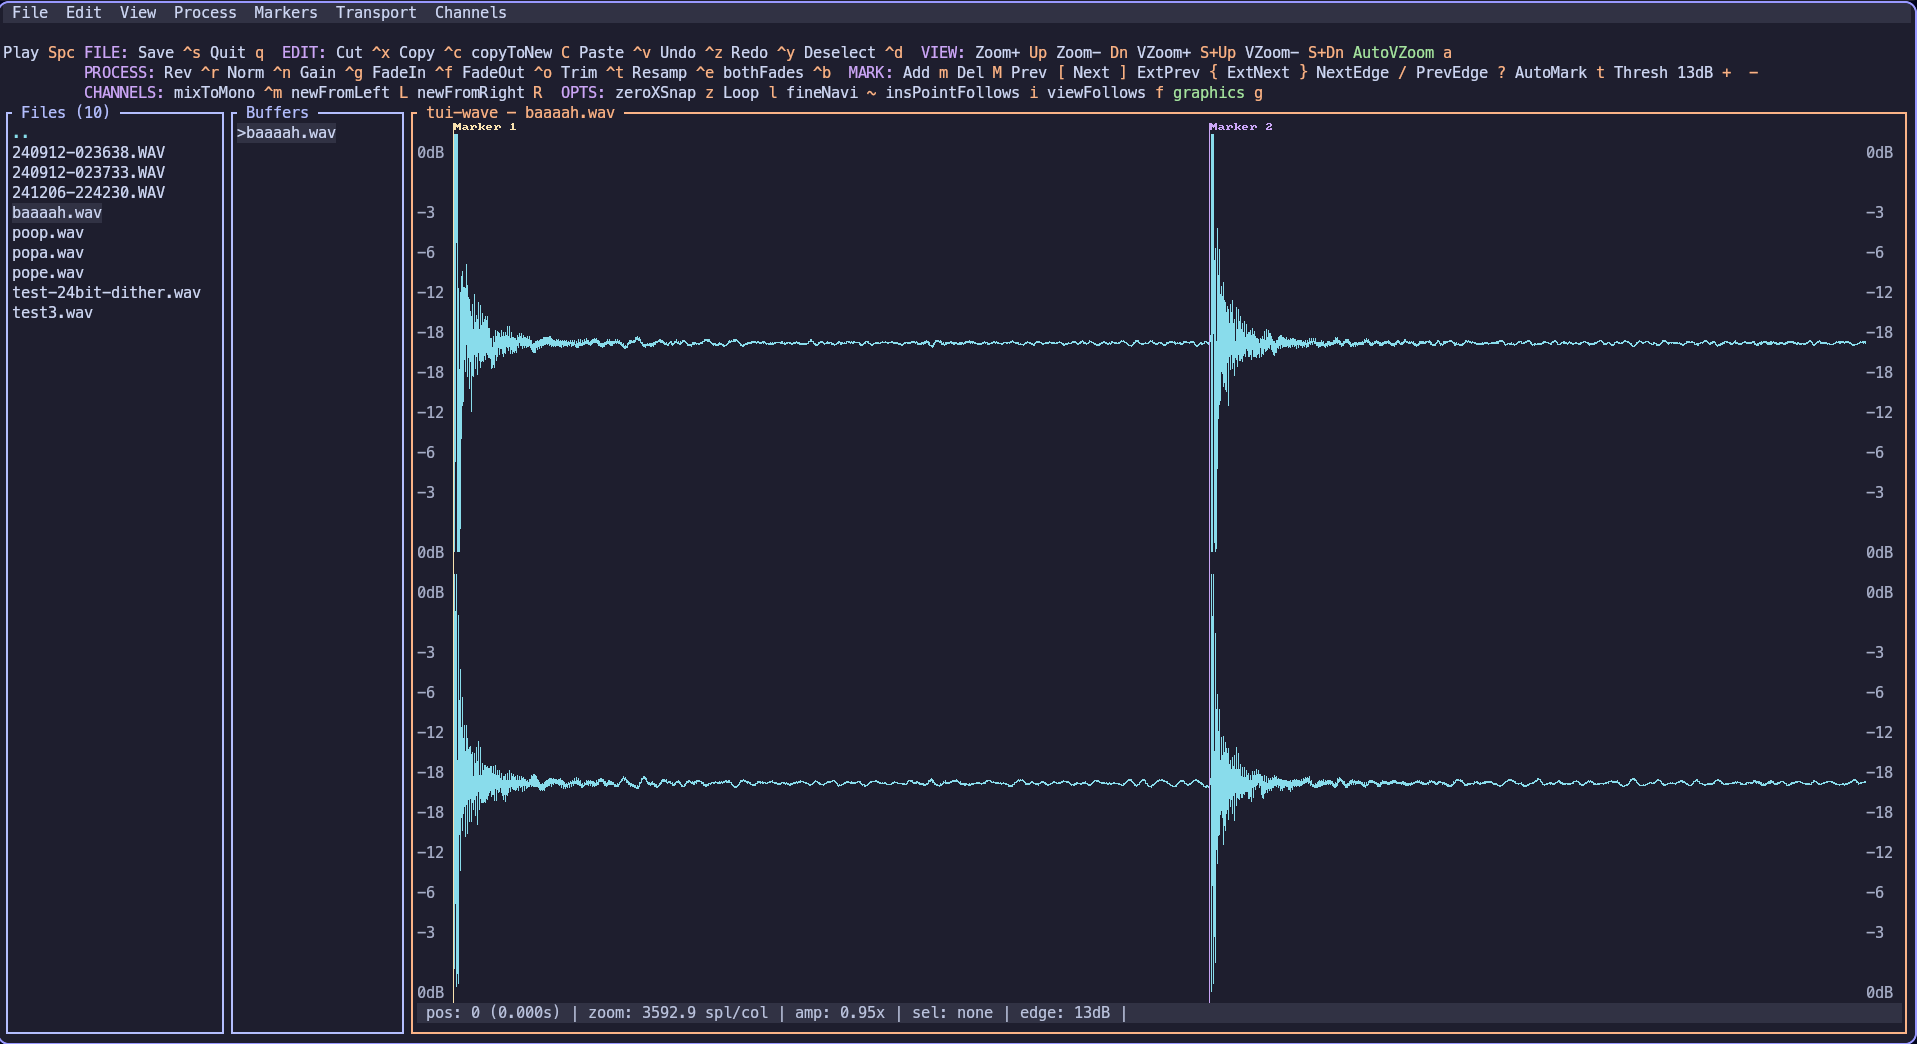
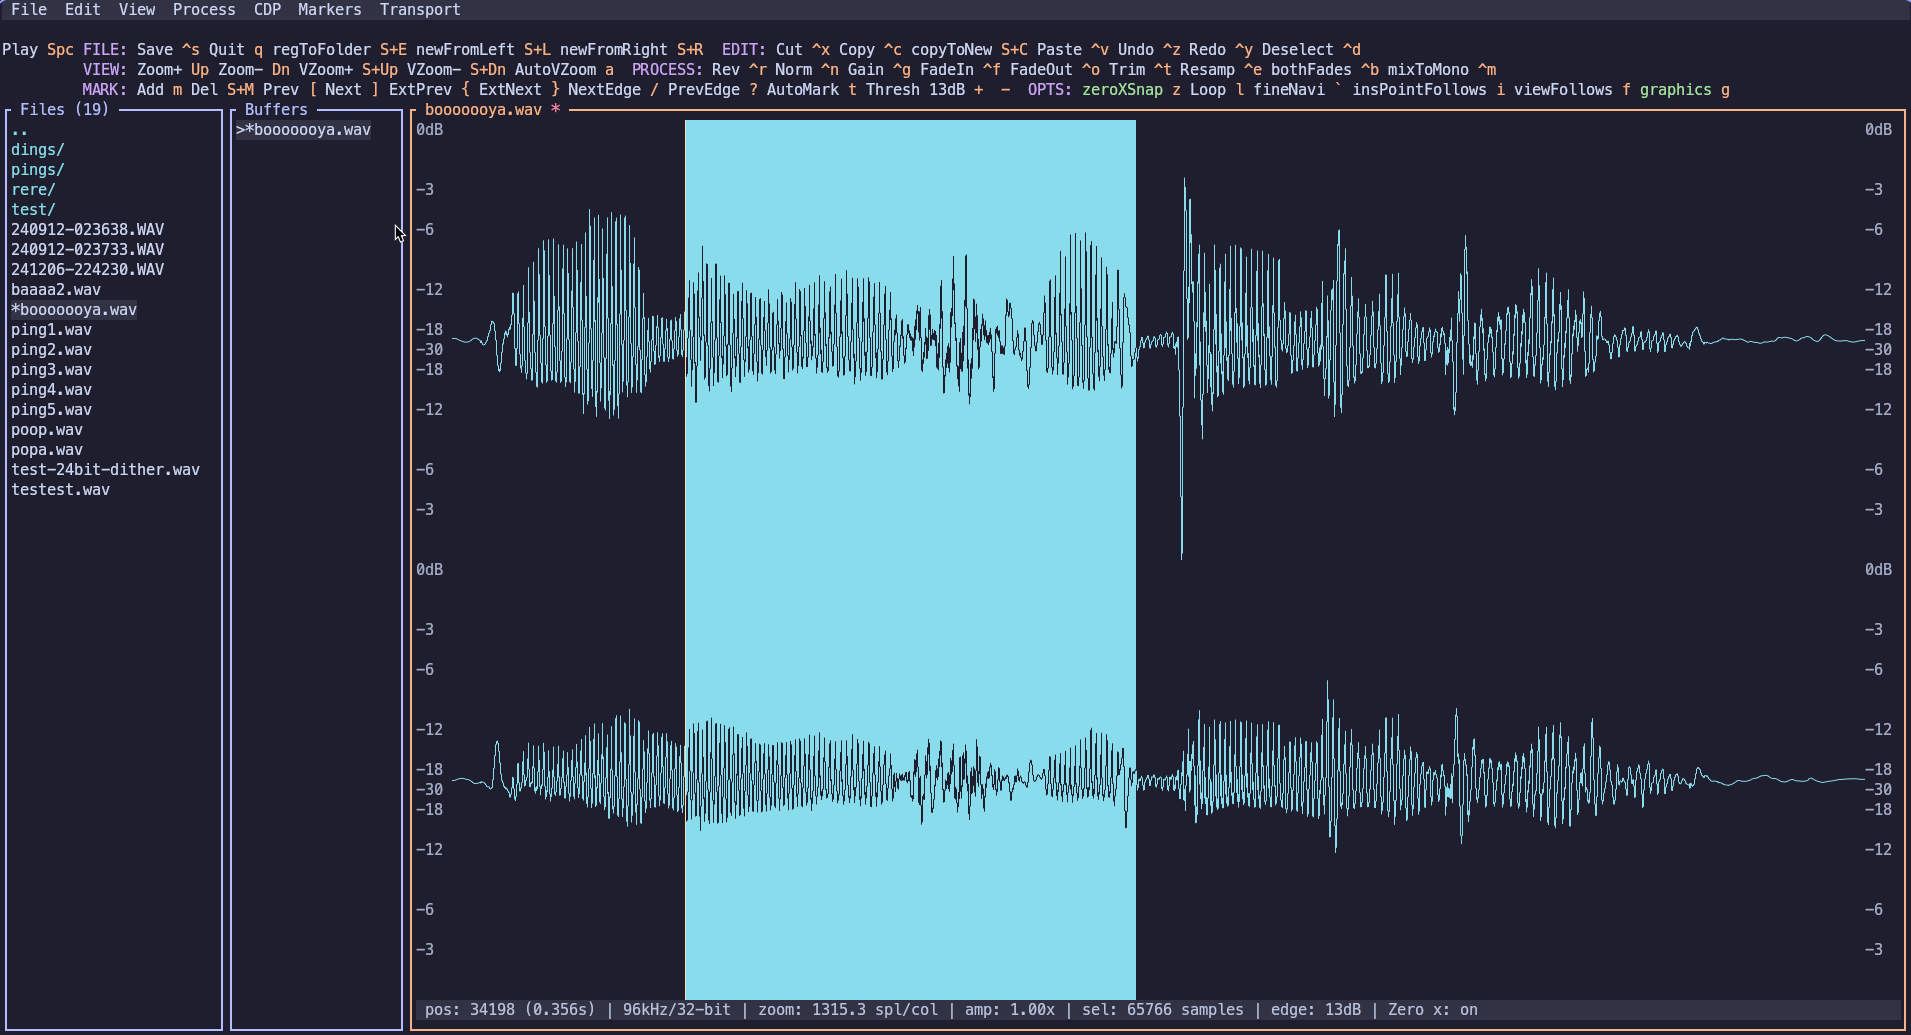
Add CDP screenshots to README, update main screenshot
CDP1-3.png show the process browser, the parameter form (presets,
automatable/green fields), and the breakpoint envelope editor.

Claude-Session: https://claude.ai/code/session_01BZnLY6Zr38ZJpg6hywbRTo

Changed region(s): [[0.0, 0.0, 1.0, 1.0], [0.988, 0.0, 1.0, 0.0309]]

diff --git a/README.md b/README.md
@@ -2,6 +2,15 @@
 
 ![tui-wave screenshot](screenshot1.png)
 
+CDP process browser, parameter form with automatable (green) fields and presets, and the
+breakpoint envelope editor:
+
+<p>
+  <img src="CDP1.png" alt="CDP process browser" width="32%" />
+  <img src="CDP2.png" alt="CDP parameter form with presets and automatable fields" width="32%" />
+  <img src="CDP3.png" alt="CDP breakpoint envelope editor" width="32%" />
+</p>
+
 A keyboard-driven **terminal audio editor** for Linux, macOS, and Windows, written in Rust (mouse works too). It opens WAV files and gives you a zoomable waveform you can navigate,
 play, and edit entirely from the keyboard: selection, cut/copy/paste, undo/redo, normalize, gain, fades, reverse, trim, resample, mix-to-mono, and timeline markers with transient
 detection — plus a menu bar, a context-aware toolbar, fully configurable keyboard shortcuts via .toml config file, a file browser, and multi-buffer editing. Edits are saved back to WAV at 16-bit, 24-bit, or 32-bit float, and BWF cue points / markers are preserved across the round trip. A dedicated command chops a file at its markers and exports each region as a separate WAV.